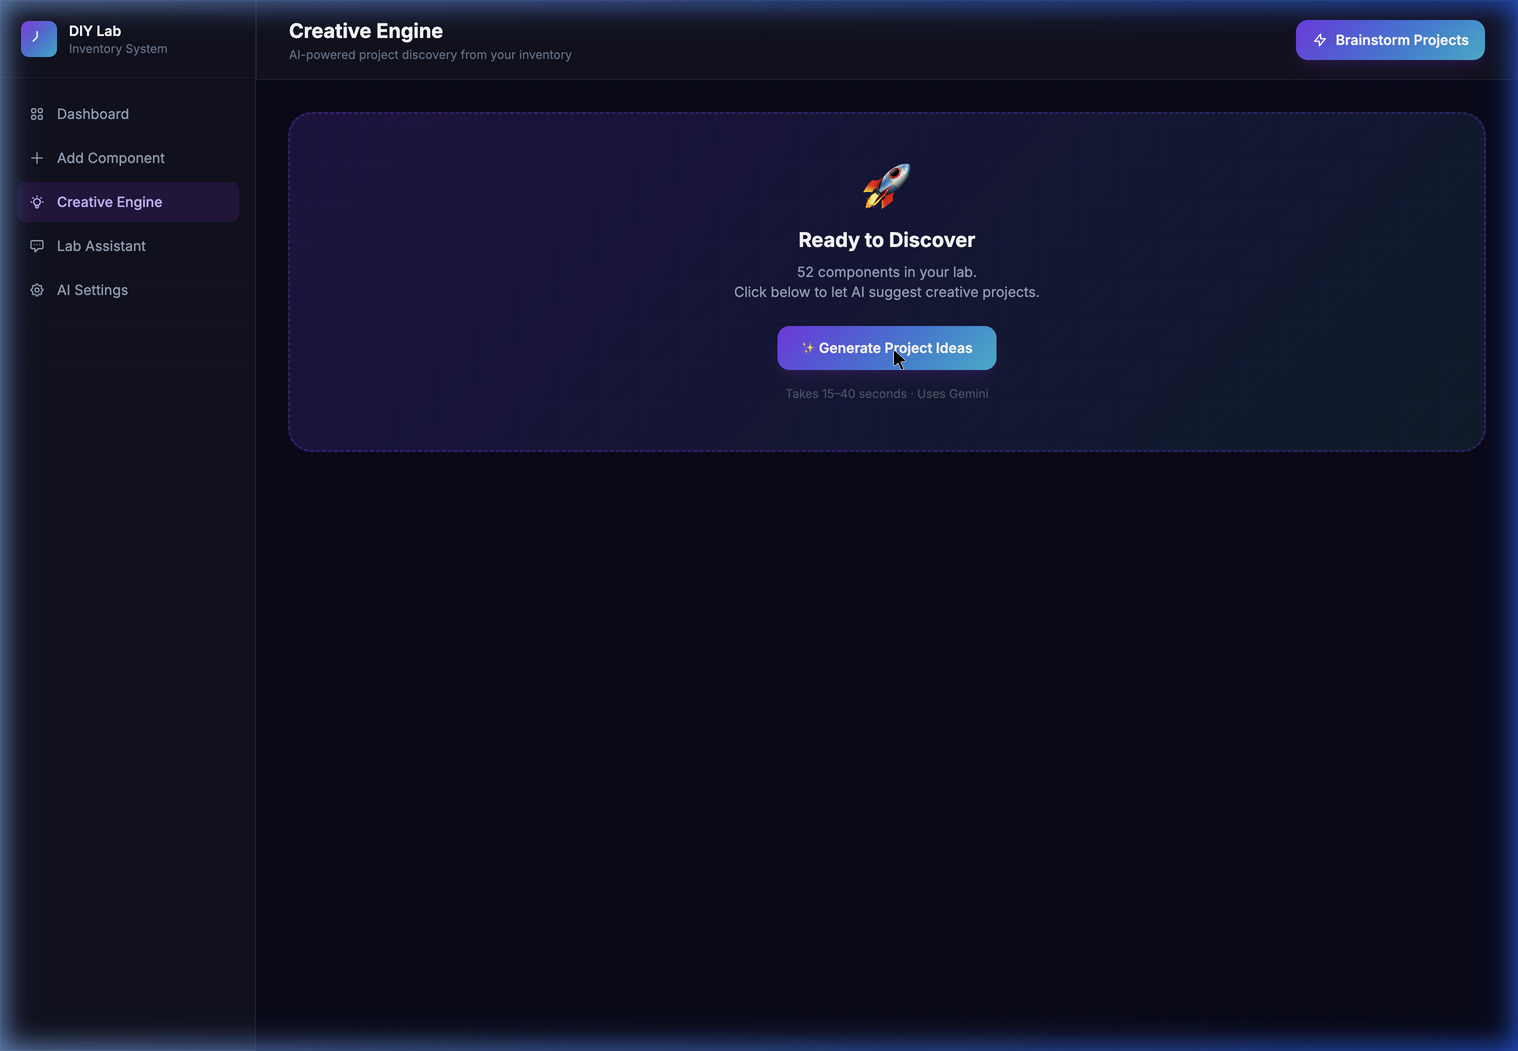
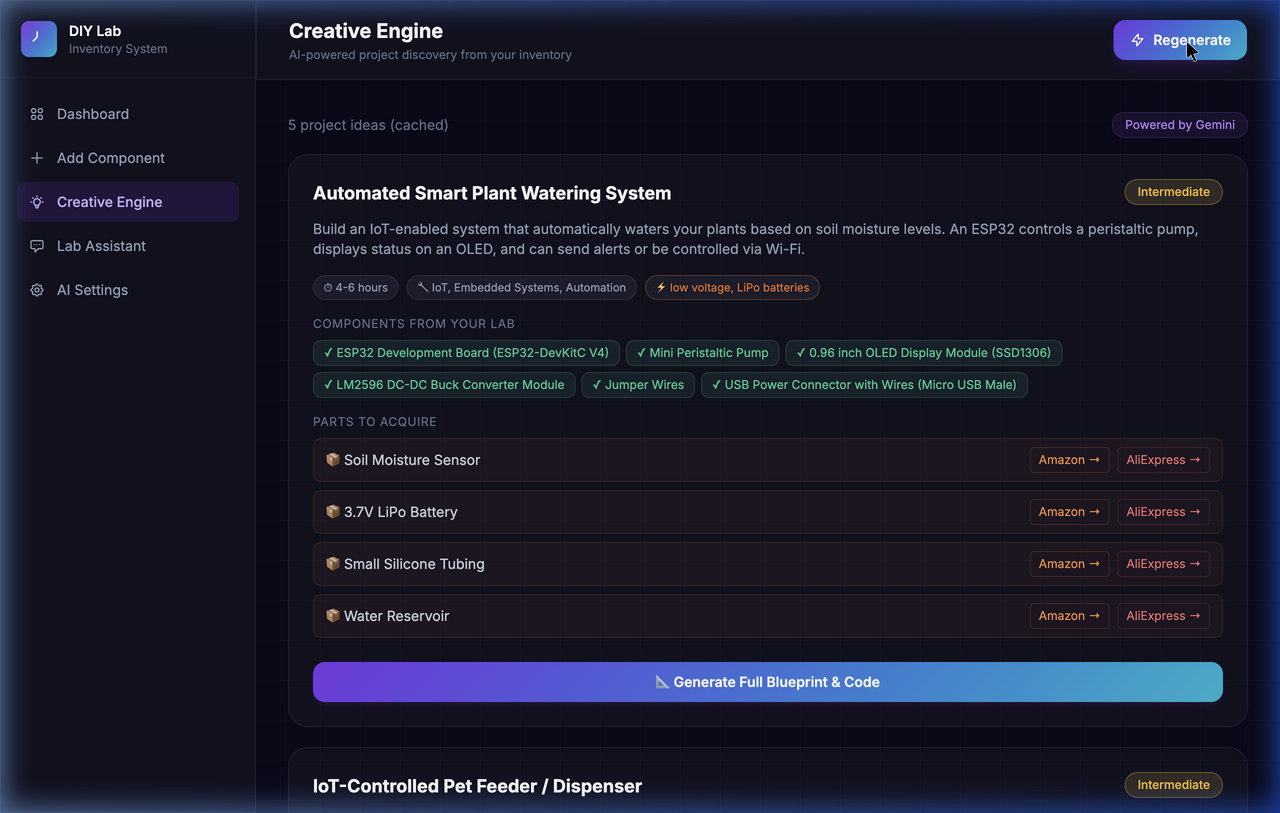
docs: replace projects screenshot + add Lab Assistant chat screenshot
05_projects.png — replaced 'ready to discover' placeholder with actual
AI-generated results showing:
- 'Automated Smart Plant Watering System' project card (Intermediate)
- Components from lab: ESP32, Mini Peristaltic Pump, OLED Display...
- Shopping links for missing parts (Amazon + AliExpress)
- 'Generate Full Blueprint & Code' button visible
- 5 project ideas (cached) header with Regenerate button

06_chat.png — new Lab Assistant screenshot showing a real conversation:
- User asked: 'What can I build with my ESP32 and OLED display?'
- AI responded with project ideas + full Arduino code snippet
- Formatted code block with syntax highlighting
- Step-by-step instructions with inline component badges

README updated: improved section heading + added chat section

diff --git a/README.md b/README.md
@@ -90,8 +90,11 @@ Everything runs locally. No cloud subscriptions, no monthly fees — just PHP, M
 ### Bulk Import Hub
 ![Bulk Import Hub — choose between CSV, ZIP, or Image Wizard](docs/screenshots/04_bulk_import_hub.png)
 
-### Creative Engine
-![Creative Engine — AI-powered project discovery from your inventory](docs/screenshots/05_projects.png)
+### Creative Engine — Generated Project Ideas
+![Creative Engine — showing an AI-generated project card with components from your lab and shopping links for missing parts](docs/screenshots/05_projects.png)
+
+### Lab Assistant Chat
+![Lab Assistant — inventory-aware chat showing a real conversation with code snippets and step-by-step guidance](docs/screenshots/06_chat.png)
 
 ---
 